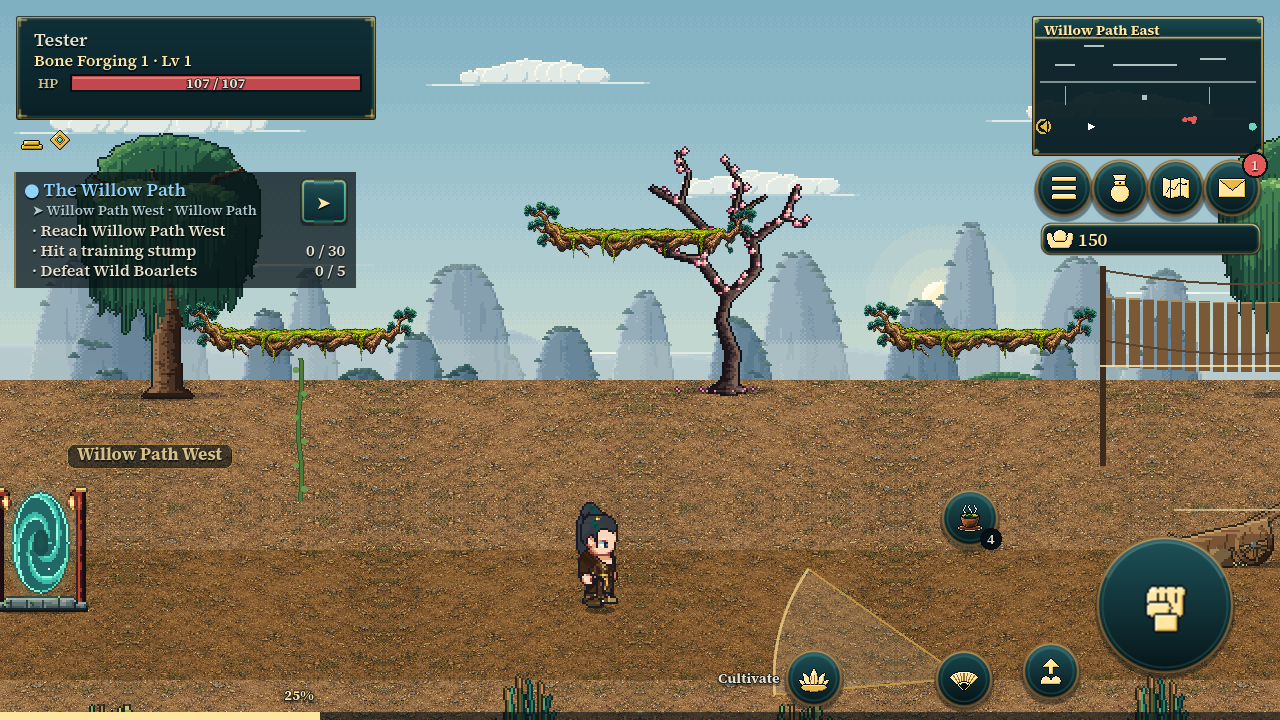
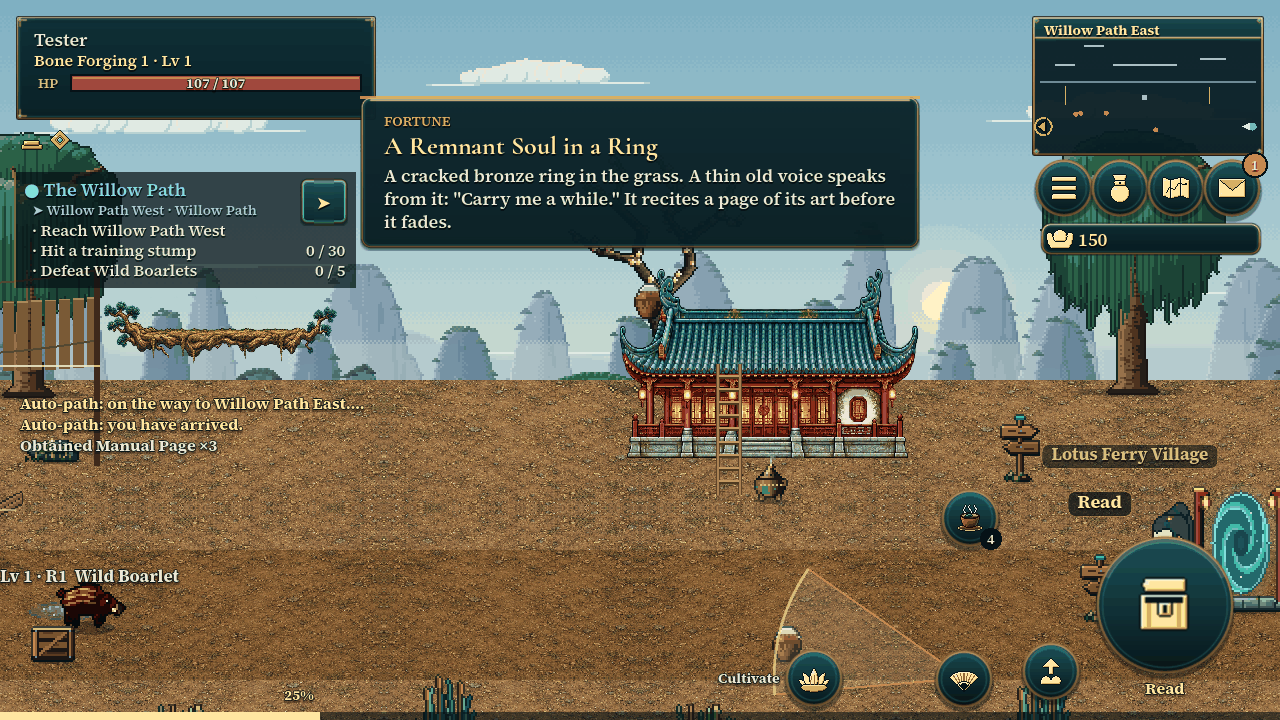
Early-game screenshots from a fresh character; valley_run says why a bed refuses a seed
Claude-Session: https://claude.ai/code/session_01M721JCQMMbc2qs2YMLxRch

diff --git a/JadeRiver/docs/ui_p5/early_game/README.md b/JadeRiver/docs/ui_p5/early_game/README.md
@@ -1,0 +1,15 @@
+# Early surprises (player_motivation.md item 7)
+
+Two pictures from a brand-new character, never the Max Tester: `tests/tutorial_order.gd` plays the walk with its own
+saves (a private `XDG_DATA_HOME`) and keeps the checkpoints `The River Token` and `First Spirit Fruit`
+(`--keep="The River Token,First Spirit Fruit"`). Each shot loads one (1280 × 720, reduced to 256 colours):
+
+```
+xvfb-run -a -s "-screen 0 1280x720x24" godot --rendering-driver opengl3 --path . -- \
+  --load=user://tutorial_cp/<checkpoint> --load-slot --capture --shot=<name> <extra>
+```
+
+| Picture | Checkpoint | Extra arguments | What it shows |
+|---|---|---|---|
+| `lucky_encounter.png` | the_river_token | `--room=lf_village --at=250,850 --auto-path=wp_east --wait=4` | The first walk through the West Gate onto the Willow Path: the sure first fortune card, the Remnant Soul in a Ring, its three manual pages in the log |
+| `spirit_fruit_tree.png` | first_spirit_fruit | `--room=wp_west --at=1960,850 --wait=1` | The Willow Path done: the first Spirit Fruit ripe on its tree on Willow Path West, "Reach for it" on the context button (its guardian wakes) |
